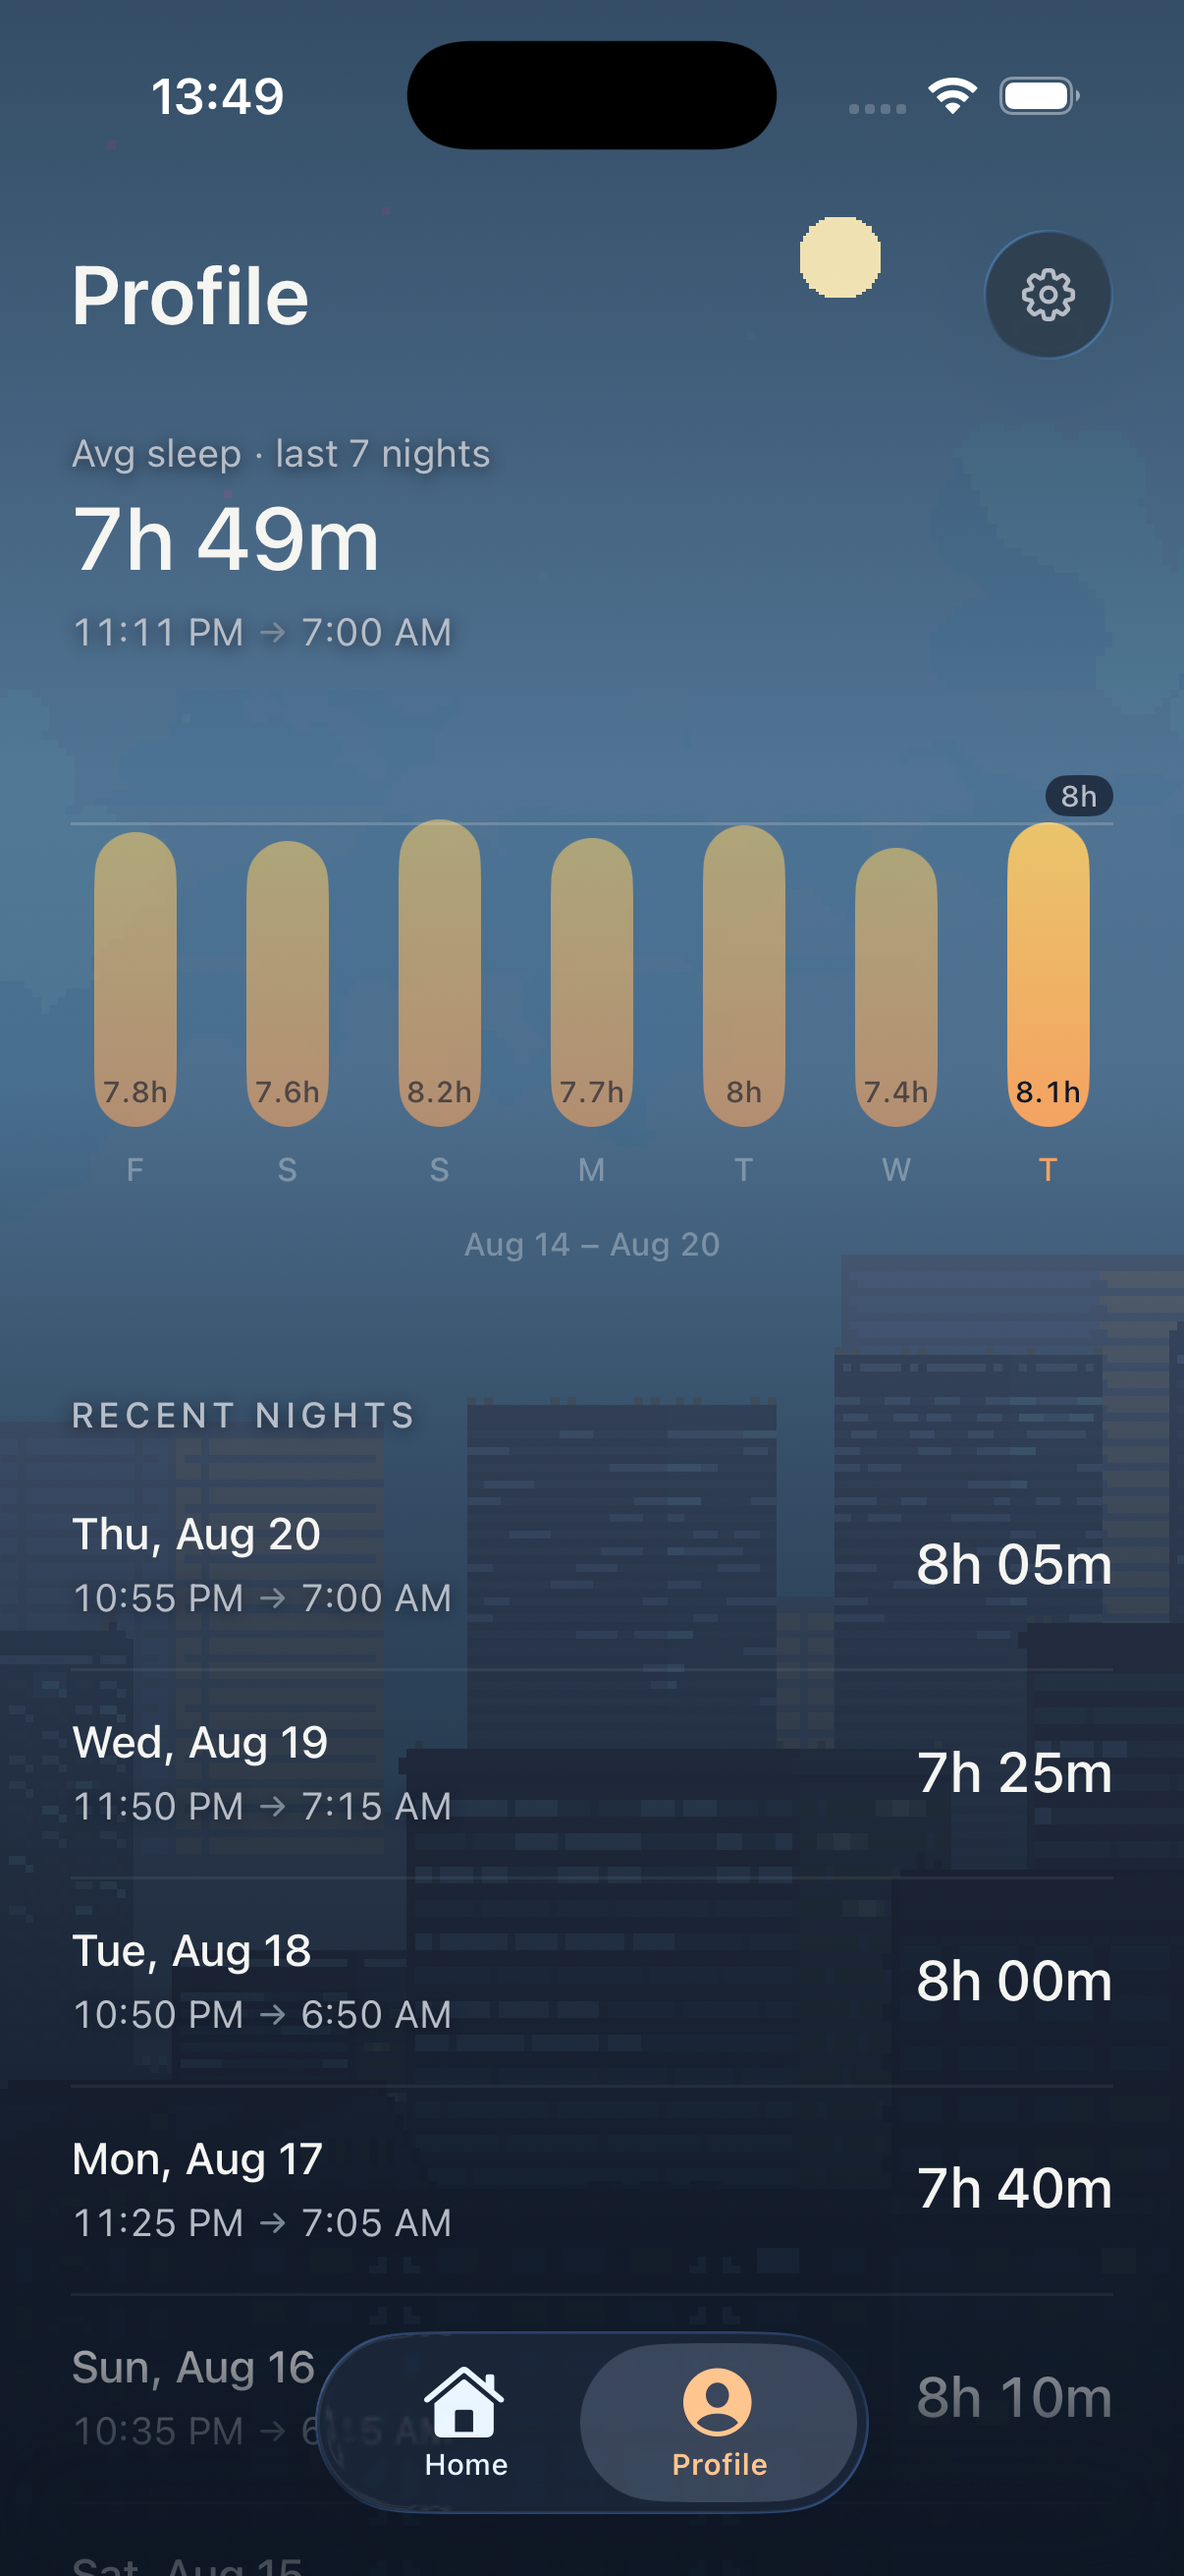
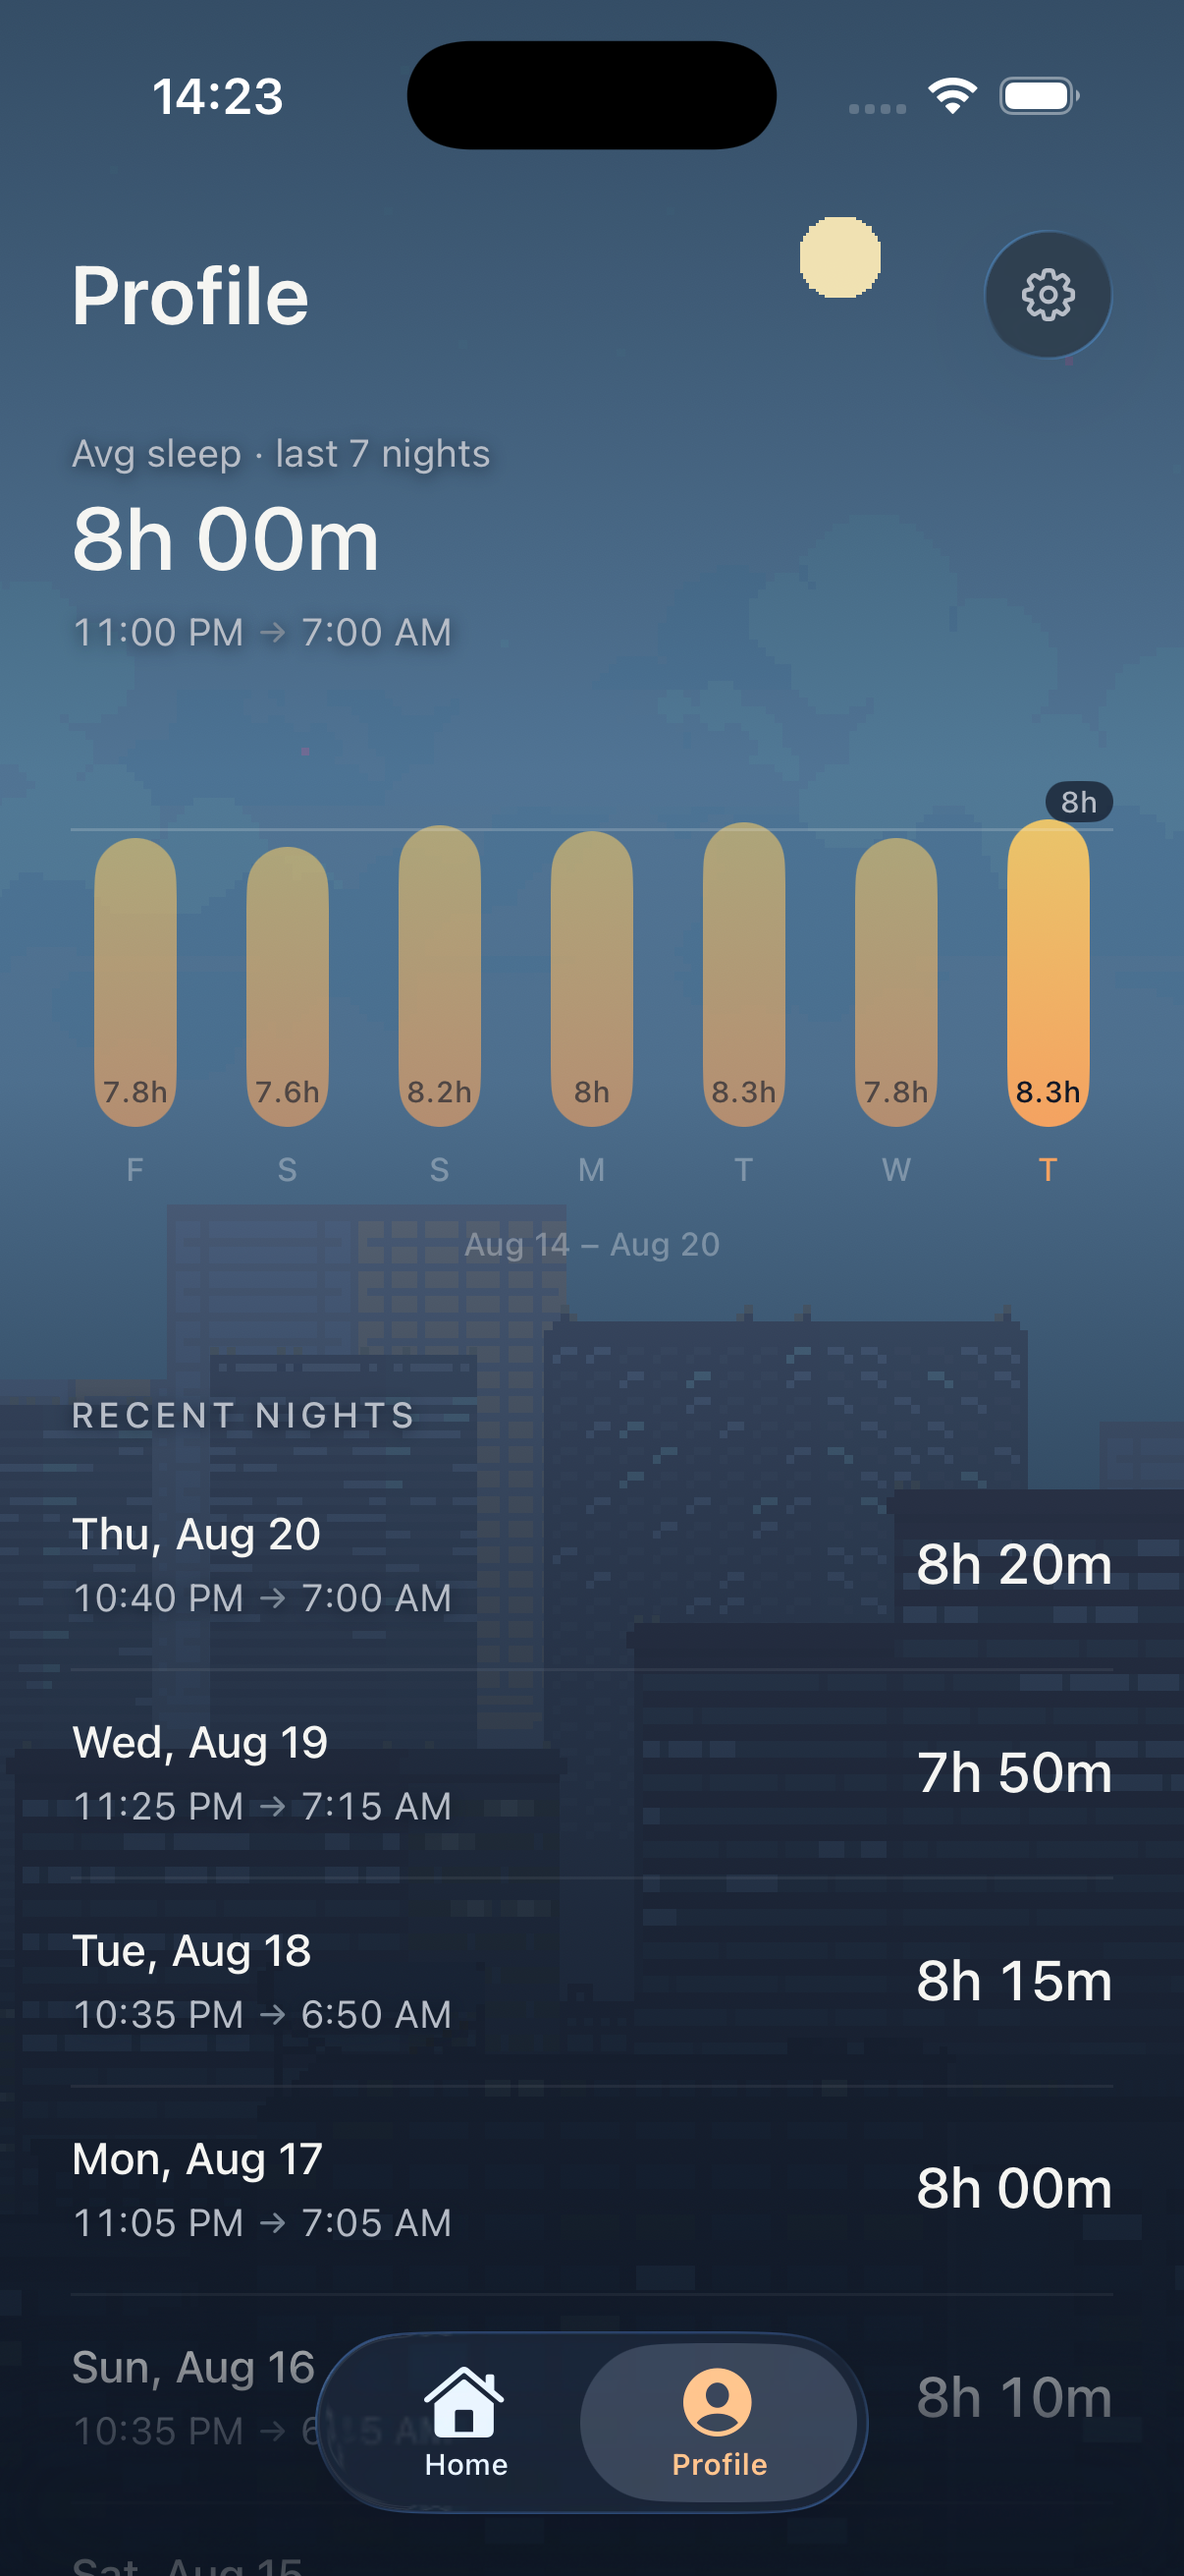
chore(dev): tune -review-record's week to an even 8h average
The seeded durations averaged 7h 49m, which reads as a slightly-short week in
a marketing shot. Retuned the seven nights to sum to 56h so the summary band
says "8h 00m" — and since the average window is the average wake minus the
average duration, the 7:00 AM wake now lands it on a clean 11:00 PM. The
per-night variation (7.6h–8.3h) is kept so the chart still reads as a record.

diff --git a/ios/SulavSleep/SleepStore.swift b/ios/SulavSleep/SleepStore.swift
@@ -237,9 +237,12 @@ final class SleepStore {
     /// wall of identical bars. Debug-only, for `-review-record`.
     private static func sampleGoodWeekSessions() -> [SleepSession] {
         // (wake hour, wake minute, minutes slept), newest night last.
+        // The seven durations sum to 3360 (56h), so the summary band reads
+        // exactly "8h 00m" — and since the average window is the average wake
+        // minus the average duration, 7:00 AM lands it on a clean 11:00 PM.
         let nights: [(Int, Int, Int)] = [
-            (6, 55, 470), (7, 10, 455), (6, 45, 490), (7, 5, 460),
-            (6, 50, 480), (7, 15, 445), (7, 0, 485),
+            (6, 55, 470), (7, 10, 455), (6, 45, 490), (7, 5, 480),
+            (6, 50, 495), (7, 15, 470), (7, 0, 500),
         ]
         let cal = Calendar.current
         let today = Date()
